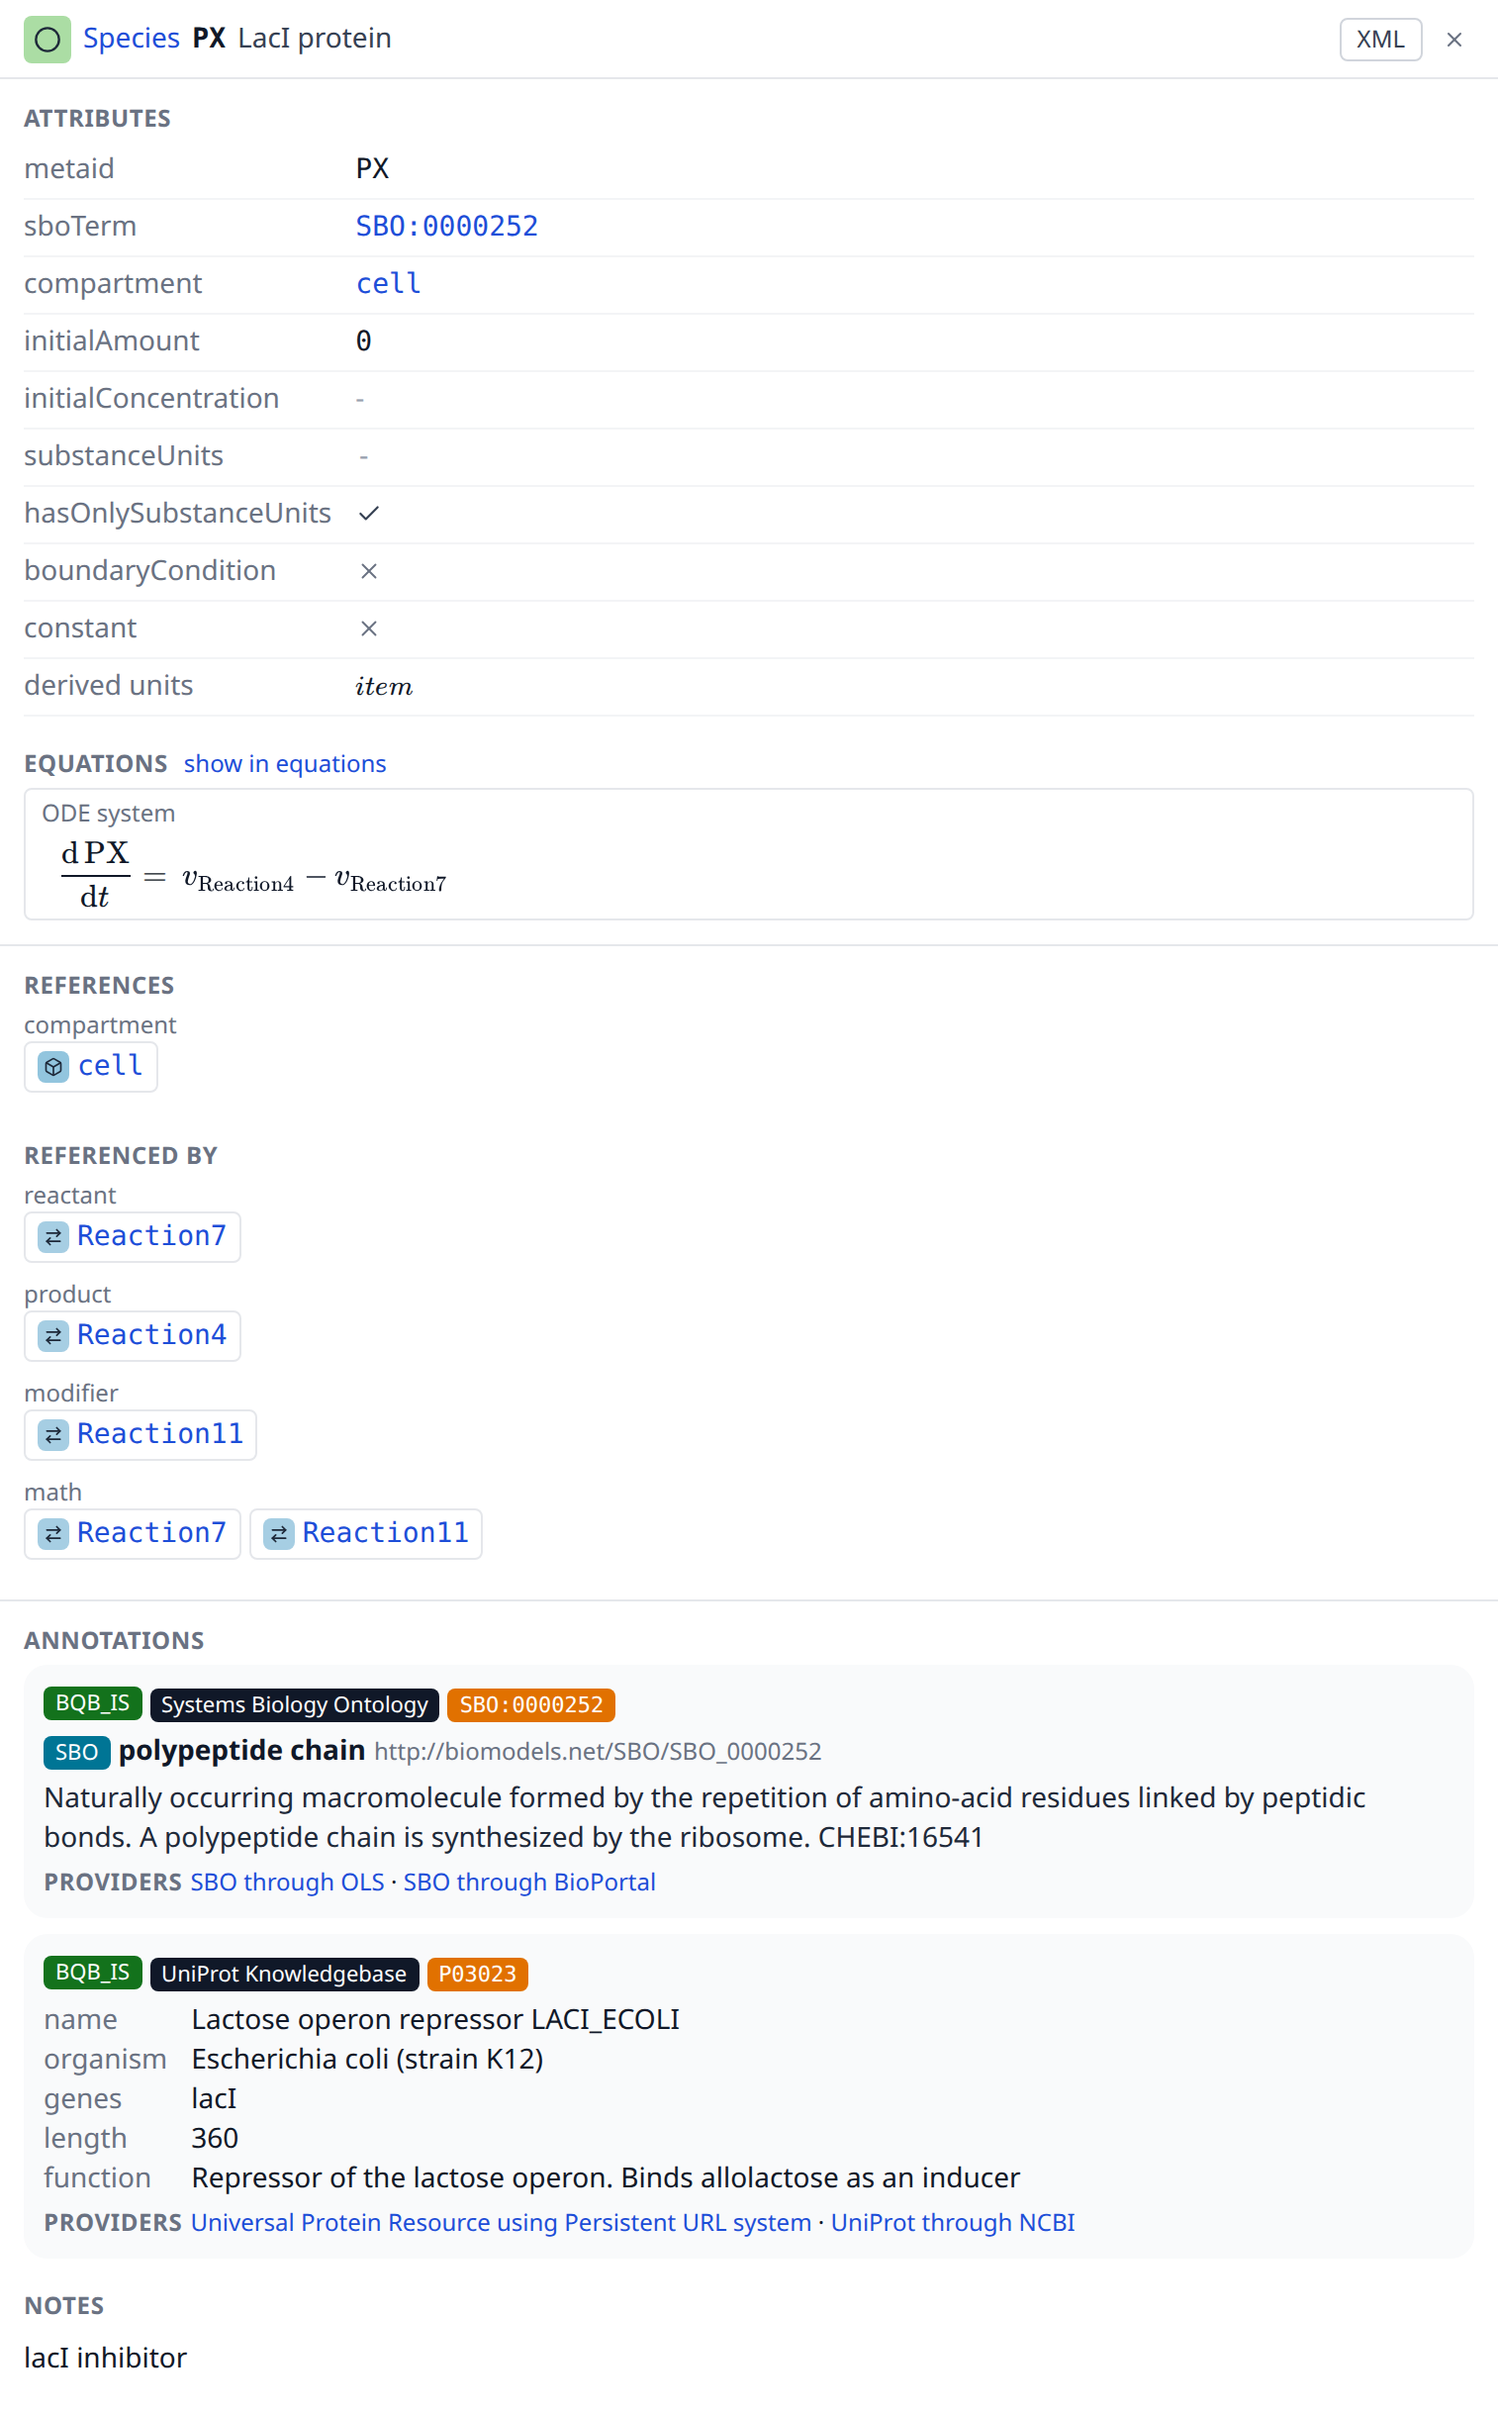
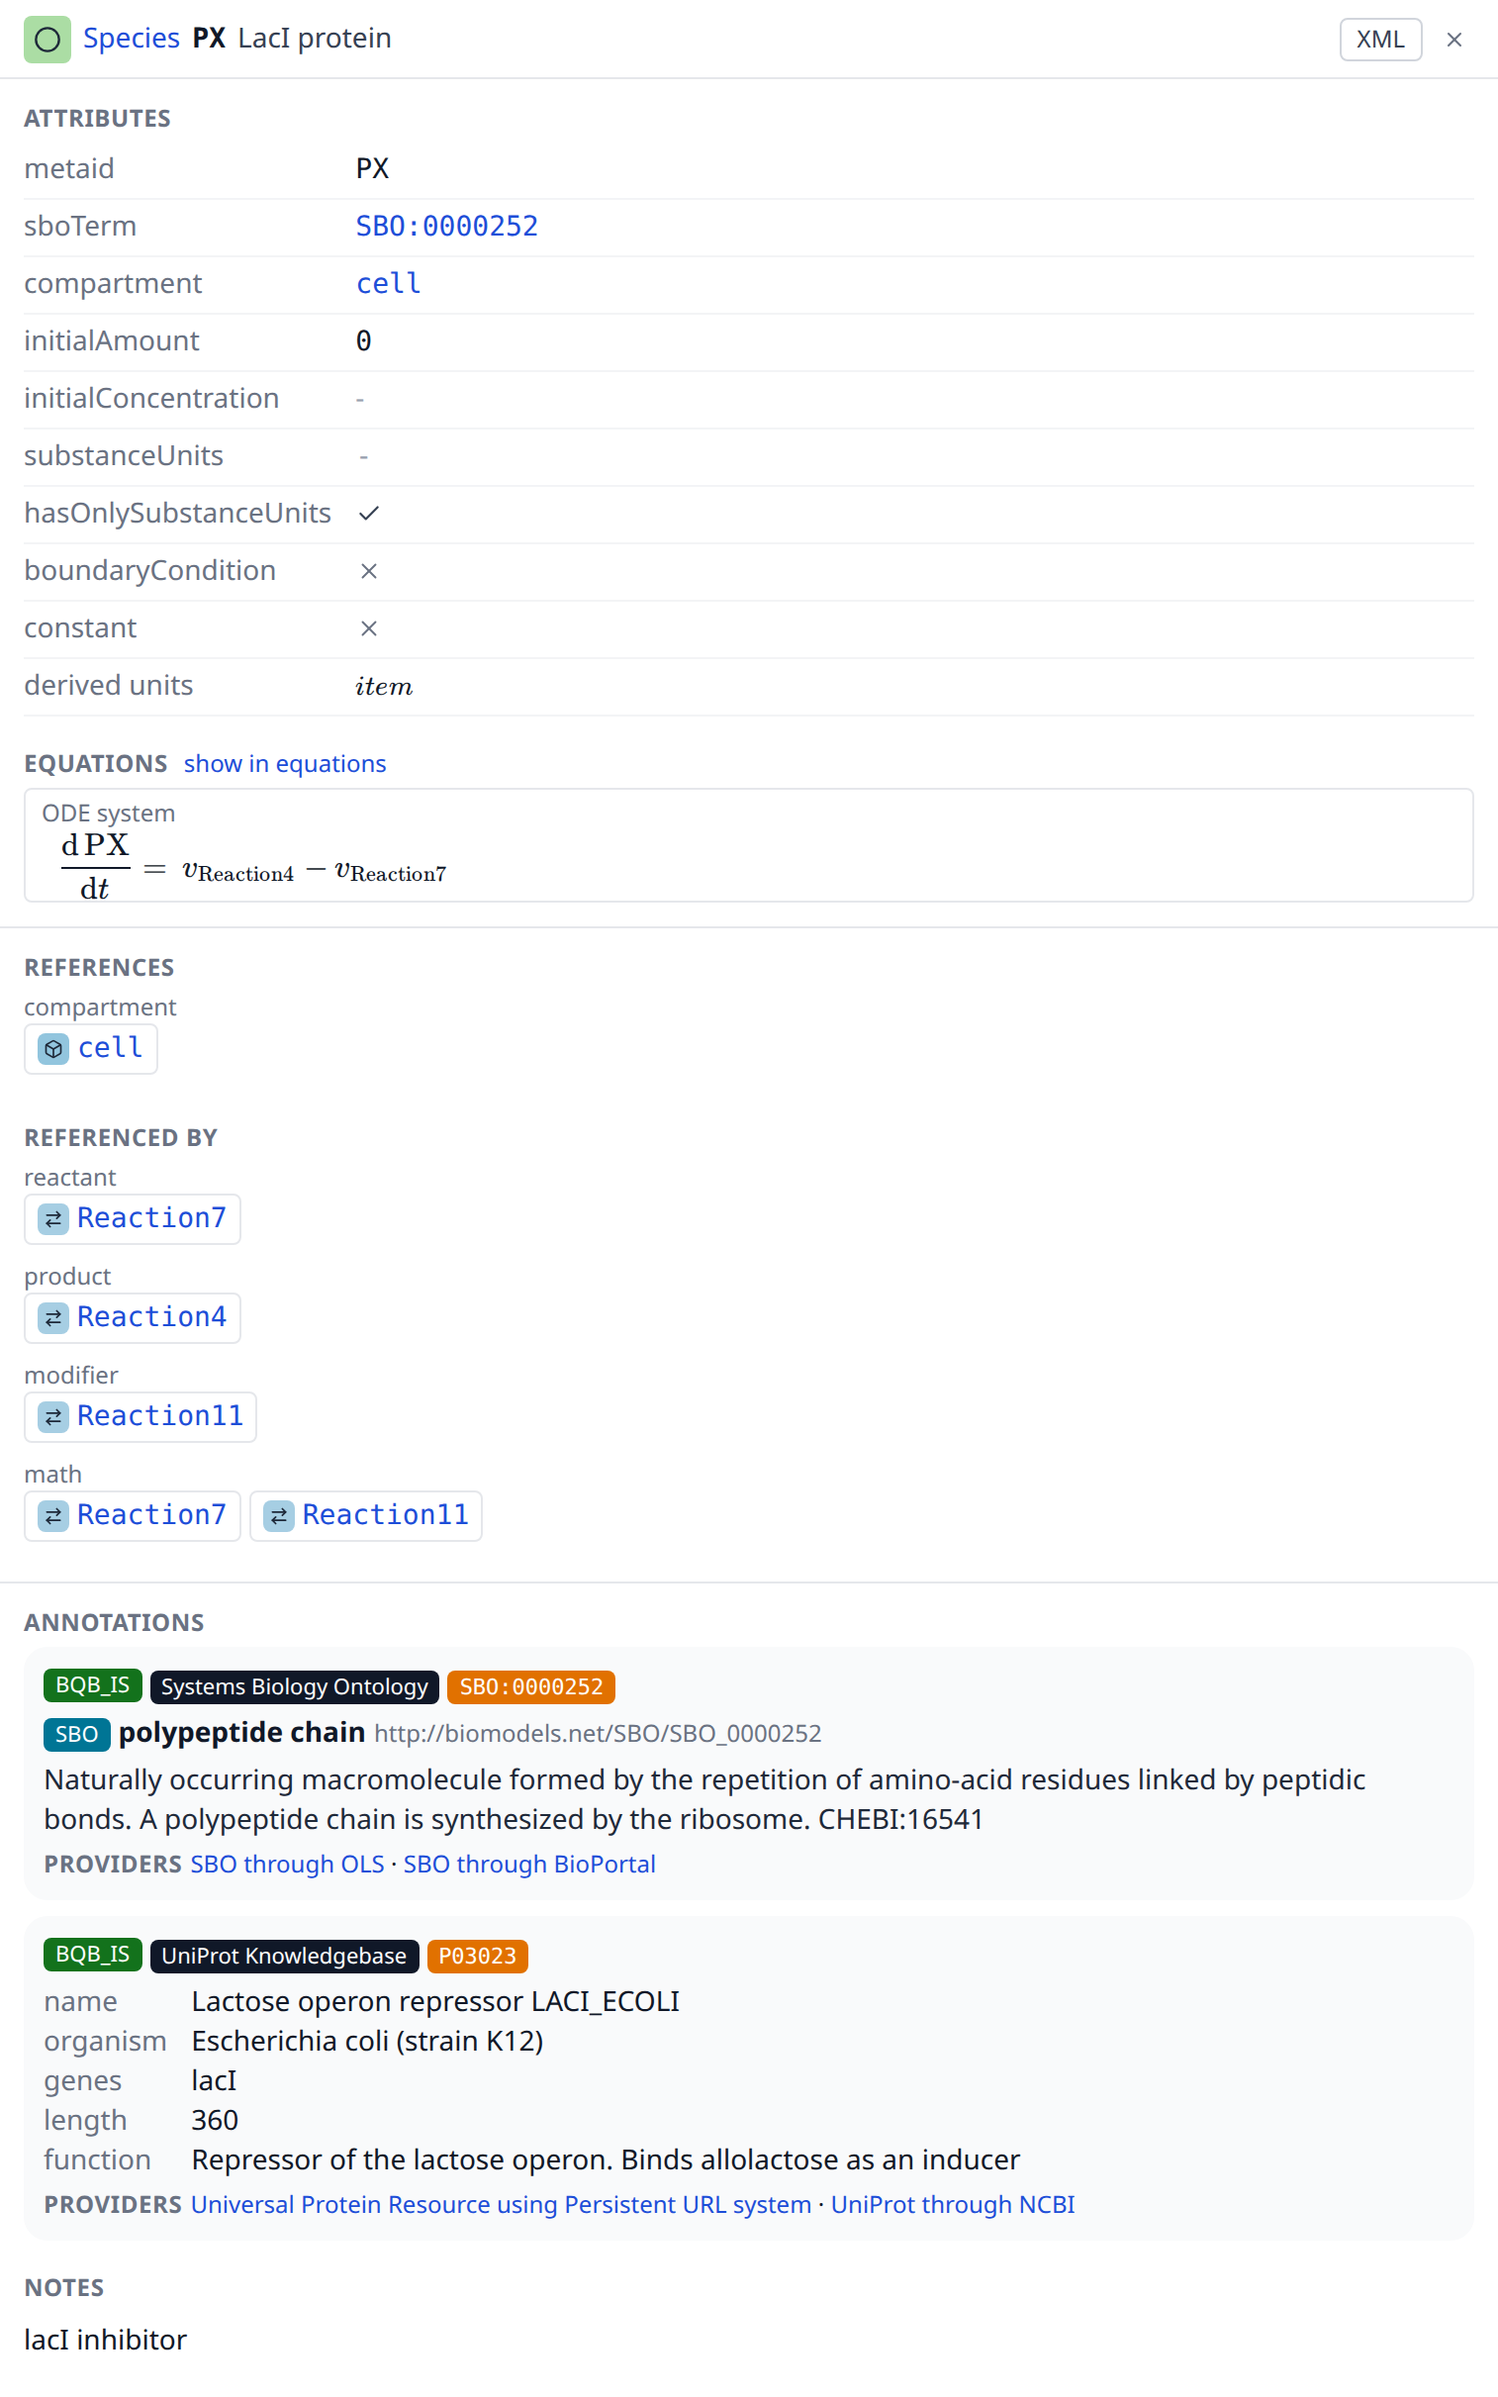
Documentation of the native quantities and the code of the equations, release notes of 0.13.0
The screenshot of the equations shows the example of variable compartments, a new
one the tab Python. The toolbar of the code keeps the summary of its help in the
tooltip, so that copy and download fit its line.

diff --git a/frontend/src/components/equations/EquationCode.vue b/frontend/src/components/equations/EquationCode.vue
@@ -82,8 +82,7 @@ onBeforeUnmount(() => clearTimeout(copiedTimer));
       <span class="font-mono text-gray-700" data-testid="equations-code-filename">{{
         code?.filename ?? ""
       }}</span>
-      <span class="flex items-center gap-1 text-gray-500">
-        <span class="first-letter:uppercase">{{ entry?.summary }}</span>
+      <span v-tooltip.bottom="entry?.summary" class="inline-flex">
         <HelpButton v-if="helpKey" :help-key="helpKey" :label="entry?.label ?? ''" size="sm" />
       </span>
       <span class="ml-auto flex items-center gap-2">

diff --git a/docs/report.md b/docs/report.md
@@ -63,15 +63,19 @@ While a search is active, every table shows only the matching rows, a type witho
 
 ## The equations
 
-A model of SBML describes a system of ordinary differential equations, and the switch "Tables | Equations" at the start of the type bar shows it in place of the tables. The view writes the model as it would be printed in a paper: first the constructs the system leaves out, if there are any, then the [ODE system](reference/concepts.md#ode-system) with the rate of change of every state, the [reaction rates](reference/concepts.md#reaction-rates) it is written with, the [assignment rules](reference/concepts.md#assignment-rules) in the order of their dependencies, the [function definitions](reference/concepts.md#function-definitions), the [initial values](reference/concepts.md#initial-values) which are given by a formula and the [events](reference/concepts.md#events). A section without an equation is left out.
+A model of SBML describes a system of ordinary differential equations, and the switch "Tables | Equations" at the start of the type bar shows it in place of the tables. The view writes the model as it would be printed in a paper, from the definitions to the system: first the constructs the system leaves out, if there are any, then the [function definitions](reference/concepts.md#function-definitions), the [assignment rules](reference/concepts.md#assignment-rules) in the order of their dependencies, the [reaction rates](reference/concepts.md#reaction-rates), the [ODE system](reference/concepts.md#ode-system) with the rate of change of every state, the [initial assignments](reference/concepts.md#initial-assignments) which are given by a formula and the [events](reference/concepts.md#events). A section without an equation is left out.
 
-[![The differential equations of the repressilator next to the inspector of the species PX, whose symbol is marked in every equation](images/report-equations.png)](images/report-equations.png)
+[![The differential equations of a model of variable compartments next to the inspector of the species S1, whose symbol is marked in every equation](images/report-equations.png)](images/report-equations.png)
 
-Every symbol of an equation stands for an element of the model: a click on it opens the element in the inspector, and the symbols of the selected element are marked in every equation, so that where a species or a parameter is used shows at a glance. The inspector of a species, a reaction, a parameter or a compartment shows the equation of the element below its attributes, with a link which opens it in the view. The rate of change of a species in concentration is divided by the size of its compartment, a conversion factor multiplies the rates of its reactions, and a species in a compartment whose size changes is integrated as its amount, all of it as the equations say it.
+Every symbol of an equation stands for an element of the model: a click on it opens the element in the inspector, and the symbols of the selected element are marked in every equation, so that where a species or a parameter is used shows at a glance. The inspector of a species, a reaction, a parameter or a compartment shows the equation of the element below its attributes, with a link which opens it in the view. Every species is a state in the quantity the model declares, its amount or its concentration. The rate of change of a species in concentration is divided by the size of its compartment, and in a compartment whose size changes it is diluted by the rate of the size, as SBML Level 3 Version 2 (section 3.4.6) describes it: the rate of a size with a rate rule is that rule, the rate of a size with an assignment rule is the derivative of the rule, an assignment of its own. A conversion factor multiplies the rates of the reactions of a species, and an event which changes a size converts the concentrations in it to the new size.
 
 A model with an algebraic rule, a `delay` or a fast reaction is no ODE system, and the view names these constructs above the equations, which are then not the whole model. A model with submodels is flattened first; an external model is read from the other files of the report, never from anywhere else. Where the system cannot be built, the view says why in place of the equations, and the tables are not affected.
 
-The buttons at the top of the view download the system as python, julia or R code which simulates the model, or as a LaTeX, typst or markdown document; the equations and the files are written by [sbmlode](https://matthiaskoenig.github.io/sbmlode/). The view is part of the url of the report (`view=equations`), and a search, which filters the tables, switches back to them.
+The tabs at the top of the view show the math or the [code](reference/concepts.md#code) of the system: python, julia or R code with the ODE system as functions of the time, the states and the constants, or a LaTeX, typst or markdown document, highlighted, to copy or to download. The equations and the code are written by [sbmlode](https://matthiaskoenig.github.io/sbmlode/), which also writes custom exports, code which integrates the model for example, linked from the toolbar of the code.
+
+[![The tab Python of the equations of the repressilator: the ODE system as code with the buttons to copy and download it](images/report-equations-code.png)](images/report-equations-code.png)
+
+The view and its tab are part of the url of the report (`view=equations`, `code=python`), and a search, which filters the tables, switches back to them.
 
 ## The inspector
 

diff --git a/docs/release-notes.md b/docs/release-notes.md
@@ -2,6 +2,21 @@
 
 What changed in every version of SBML4Humans, the newest first. The notes of a version are the text of its [release on GitHub](https://github.com/matthiaskoenig/sbml4humans/releases), where the source of that version is archived. The footer of the application names the version it runs.
 
+## 0.13.0
+
+The differential equations of a model are written in the native quantities of its state variables, read from the definitions to the system, and show the code of every format of sbmlode next to the math.
+
+### The equations
+- a species is a state in the quantity the model declares, its amount or its concentration, also in a compartment whose size changes: its rate of change is divided by the size and diluted by the rate of the size, as SBML Level 3 Version 2 (section 3.4.6) describes it; the rate of a size with an assignment rule is the derivative of the rule, an assignment of its own, and an event which changes a size converts the concentrations in it ([#114](https://github.com/matthiaskoenig/sbml4humans/issues/114))
+- the sections read from the definitions to the system: function definitions, assignment rules, reaction rates, ODE system, initial assignments, events
+- the tabs Math, Python, Julia, R, LaTeX, Typst and Markdown show the math or the code of the system, highlighted, to copy or to download; the tab is part of the url (`code=python`)
+- the code is the ODE system alone, the initial values, the rates of change and the assigned values, without the integrator; the toolbar links the formats of sbmlode for custom exports
+- the example `variable_compartment` shows compartments whose size changes by a rate rule, an assignment rule and an event
+- the fractions of a long equation are no longer cut at the bottom of its row
+
+### Dependencies
+- sbmlode 0.2.0, which writes the native quantities; Shiki and tm-grammars highlight the code, loaded with the first code shown
+
 ## 0.12.0
 
 A report shows the differential equations of its model: the switch "Tables | Equations" writes the model as the system of ordinary differential equations it describes, every symbol linked to its element, and downloads it as code which simulates the model.

diff --git a/release-notes/0.13.0.md b/release-notes/0.13.0.md
@@ -1,0 +1,16 @@
+# Release notes for sbml4humans 0.13.0
+
+The differential equations of a model are written in the native quantities of its state variables, read from the definitions to the system, and show the code of every format of sbmlode next to the math.
+
+## The equations
+- a species is a state in the quantity the model declares, its amount or its concentration, also in a compartment whose size changes: its rate of change is divided by the size and diluted by the rate of the size, as SBML Level 3 Version 2 (section 3.4.6) describes it; the rate of a size with an assignment rule is the derivative of the rule, an assignment of its own, and an event which changes a size converts the concentrations in it ([#114](https://github.com/matthiaskoenig/sbml4humans/issues/114))
+- the sections read from the definitions to the system: function definitions, assignment rules, reaction rates, ODE system, initial assignments, events
+- the tabs Math, Python, Julia, R, LaTeX, Typst and Markdown show the math or the code of the system, highlighted, to copy or to download; the tab is part of the url (`code=python`)
+- the code is the ODE system alone, the initial values, the rates of change and the assigned values, without the integrator; the toolbar links the formats of sbmlode for custom exports
+- the example `variable_compartment` shows compartments whose size changes by a rate rule, an assignment rule and an event
+- the fractions of a long equation are no longer cut at the bottom of its row
+
+## Dependencies
+- sbmlode 0.2.0, which writes the native quantities; Shiki and tm-grammars highlight the code, loaded with the first code shown
+
+Your sbml4humans team
